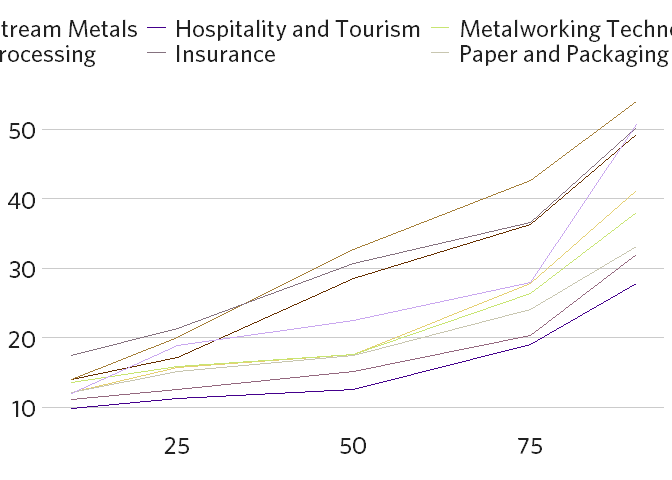
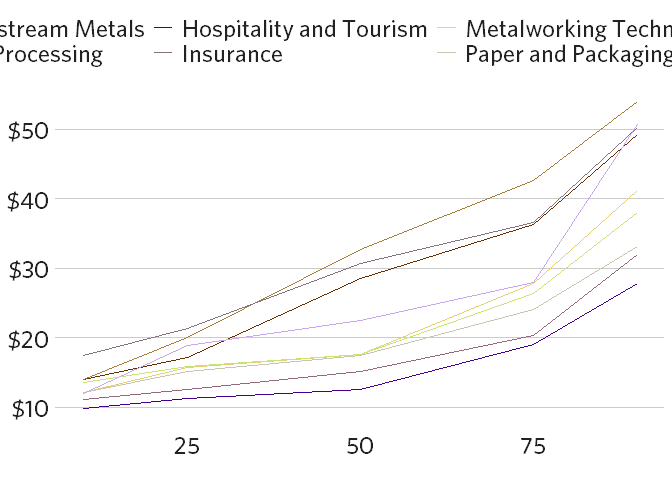
Added diverging gradients
Also modified lightest/darkest values from existing gradients, as they were too light/dark. Note that gradient names were also changed: sequential gradients have a "seq_" prefix, while diverging gradients have a "div_" prefix.

diff --git a/README.md b/README.md
@@ -45,10 +45,10 @@ ggplot(cluster_jobchange, aes(x = reorder(name, jobchange), y = jobchange, fill 
 ``` r
 # a stacked bar chart
 filter(traded_emp_by_race, variable %in% c("SpecializedTraded", "UnspecializedTraded")) %>%
-ggplot(aes(x = reorder(Race, -value), y = value, fill = variable)) +
-  geom_col(position = position_stack(reverse = TRUE)) +
-  scale_y_continuous(labels = scales::percent) +
-  theme_cmap()
+  ggplot(aes(x = reorder(Race, -value), y = value, fill = variable)) +
+    geom_col(position = position_stack(reverse = TRUE)) +
+    scale_y_continuous(labels = scales::percent) +
+    theme_cmap()
 ```
 
 ![](man/figures/README-unnamed-chunk-5-1.png)<!-- -->
@@ -78,6 +78,7 @@ ggplot(economy_basic, aes(x = interaction(year, variable), y = value, fill = sec
 # a non-time-series line chart
 ggplot(percentile_wages, aes(x = percentile, y = wage, color = cluster)) +
   geom_line() +
+  scale_y_continuous(labels = scales::dollar) +
   theme_cmap()
 ```
 
@@ -87,7 +88,7 @@ ggplot(percentile_wages, aes(x = percentile, y = wage, color = cluster)) +
 # a time-series line chart
 ggplot(grp_over_time, aes(x = year, y = realgrp, color = cluster)) +
   geom_line() +
-  geom_text_lastonly(add_points=TRUE) +
+  geom_text_lastonly(add_points = TRUE) +
   theme_cmap()
 ```
 
@@ -106,59 +107,48 @@ Add discrete palettes by adding either a `cmap_fill_discrete` or
 `cmap_color_discrete` object to a ggplot. Note that discrete palettes
 will automatically interpolate additional colors if the dataset has more
 colors than the palette. This can be helpful but is not ideal for
-finished
-graphics.
+finished graphics.
 
 ``` r
 ggplot(percentile_wages, aes(x = percentile, y = wage, color = cluster)) +
   geom_line() +
+  scale_y_continuous(labels = scales::dollar) +
   theme_cmap() +
   cmap_color_discrete(palette = "prosperity")
 ```
 
 ![](man/figures/README-unnamed-chunk-10-1.png)<!-- -->
 
-The following gradients are
-available:
+The following gradients are available:
 
-<img src="man/figures/README-unnamed-chunk-11-1.png" width="50%" height="40%" /><img src="man/figures/README-unnamed-chunk-11-2.png" width="50%" height="40%" />
-
-<img src="man/figures/README-unnamed-chunk-12-1.png" width="50%" height="40%" /><img src="man/figures/README-unnamed-chunk-12-2.png" width="50%" height="40%" />
-
-<img src="man/figures/README-unnamed-chunk-13-1.png" width="50%" height="40%" /><img src="man/figures/README-unnamed-chunk-13-2.png" width="50%" height="40%" />
-
-<img src="man/figures/README-unnamed-chunk-14-1.png" width="50%" height="40%" />
+<img src="man/figures/README-unnamed-chunk-11-1.png" width="50%" height="40%" /><img src="man/figures/README-unnamed-chunk-11-2.png" width="50%" height="40%" /><img src="man/figures/README-unnamed-chunk-11-3.png" width="50%" height="40%" /><img src="man/figures/README-unnamed-chunk-11-4.png" width="50%" height="40%" /><img src="man/figures/README-unnamed-chunk-11-5.png" width="50%" height="40%" /><img src="man/figures/README-unnamed-chunk-11-6.png" width="50%" height="40%" /><img src="man/figures/README-unnamed-chunk-11-7.png" width="50%" height="40%" />
 
 ### Continuous palettes
 
 Add continuous palettes by adding either a `cmap_fill_continuous` or
-`cmap_color_continuous` object to a ggplot. As in:
+`cmap_color_continuous` object to a ggplot. For example:
 
 ``` r
 percentile_wages %>% 
   filter(cluster %in% c("Biopharmaceuticals", "Hospitality and Tourism", "Paper and Packaging")) %>% 
   ggplot(aes(x = cluster, y = wage, color = percentile)) +
-    geom_point(size=5) +
+    geom_point(size = 5) +
+    scale_y_continuous(labels = scales::dollar) +
     coord_flip() +
     theme_cmap() +
-    cmap_color_continuous(palette = "red_purple")
+    cmap_color_continuous(palette = "seq_red_purple")
 ```
 
-![](man/figures/README-unnamed-chunk-15-1.png)<!-- -->
+![](man/figures/README-unnamed-chunk-12-1.png)<!-- -->
 
-The following gradients are
-available:
+#### Single-hue sequential gradients
 
-<img src="man/figures/README-unnamed-chunk-16-1.png" width="50%" height="40%" /><img src="man/figures/README-unnamed-chunk-16-2.png" width="50%" height="40%" />
+<img src="man/figures/README-unnamed-chunk-13-1.png" width="50%" height="40%" /><img src="man/figures/README-unnamed-chunk-13-2.png" width="50%" height="40%" /><img src="man/figures/README-unnamed-chunk-13-3.png" width="50%" height="40%" /><img src="man/figures/README-unnamed-chunk-13-4.png" width="50%" height="40%" /><img src="man/figures/README-unnamed-chunk-13-5.png" width="50%" height="40%" /><img src="man/figures/README-unnamed-chunk-13-6.png" width="50%" height="40%" /><img src="man/figures/README-unnamed-chunk-13-7.png" width="50%" height="40%" /><img src="man/figures/README-unnamed-chunk-13-8.png" width="50%" height="40%" />
 
-<img src="man/figures/README-unnamed-chunk-17-1.png" width="50%" height="40%" /><img src="man/figures/README-unnamed-chunk-17-2.png" width="50%" height="40%" />
+#### Multi-hue sequential gradients
 
-<img src="man/figures/README-unnamed-chunk-18-1.png" width="50%" height="40%" /><img src="man/figures/README-unnamed-chunk-18-2.png" width="50%" height="40%" />
+<img src="man/figures/README-unnamed-chunk-14-1.png" width="50%" height="40%" /><img src="man/figures/README-unnamed-chunk-14-2.png" width="50%" height="40%" /><img src="man/figures/README-unnamed-chunk-14-3.png" width="50%" height="40%" /><img src="man/figures/README-unnamed-chunk-14-4.png" width="50%" height="40%" /><img src="man/figures/README-unnamed-chunk-14-5.png" width="50%" height="40%" /><img src="man/figures/README-unnamed-chunk-14-6.png" width="50%" height="40%" /><img src="man/figures/README-unnamed-chunk-14-7.png" width="50%" height="40%" /><img src="man/figures/README-unnamed-chunk-14-8.png" width="50%" height="40%" />
 
-<img src="man/figures/README-unnamed-chunk-19-1.png" width="50%" height="40%" /><img src="man/figures/README-unnamed-chunk-19-2.png" width="50%" height="40%" />
+#### Multi-hue diverging gradients
 
-<img src="man/figures/README-unnamed-chunk-20-1.png" width="50%" height="40%" /><img src="man/figures/README-unnamed-chunk-20-2.png" width="50%" height="40%" />
-
-<img src="man/figures/README-unnamed-chunk-21-1.png" width="50%" height="40%" /><img src="man/figures/README-unnamed-chunk-21-2.png" width="50%" height="40%" />
-
-<img src="man/figures/README-unnamed-chunk-22-1.png" width="50%" height="40%" /><img src="man/figures/README-unnamed-chunk-22-2.png" width="50%" height="40%" />
+<img src="man/figures/README-unnamed-chunk-15-1.png" width="50%" height="40%" /><img src="man/figures/README-unnamed-chunk-15-2.png" width="50%" height="40%" /><img src="man/figures/README-unnamed-chunk-15-3.png" width="50%" height="40%" /><img src="man/figures/README-unnamed-chunk-15-4.png" width="50%" height="40%" /><img src="man/figures/README-unnamed-chunk-15-5.png" width="50%" height="40%" /><img src="man/figures/README-unnamed-chunk-15-6.png" width="50%" height="40%" /><img src="man/figures/README-unnamed-chunk-15-7.png" width="50%" height="40%" />
